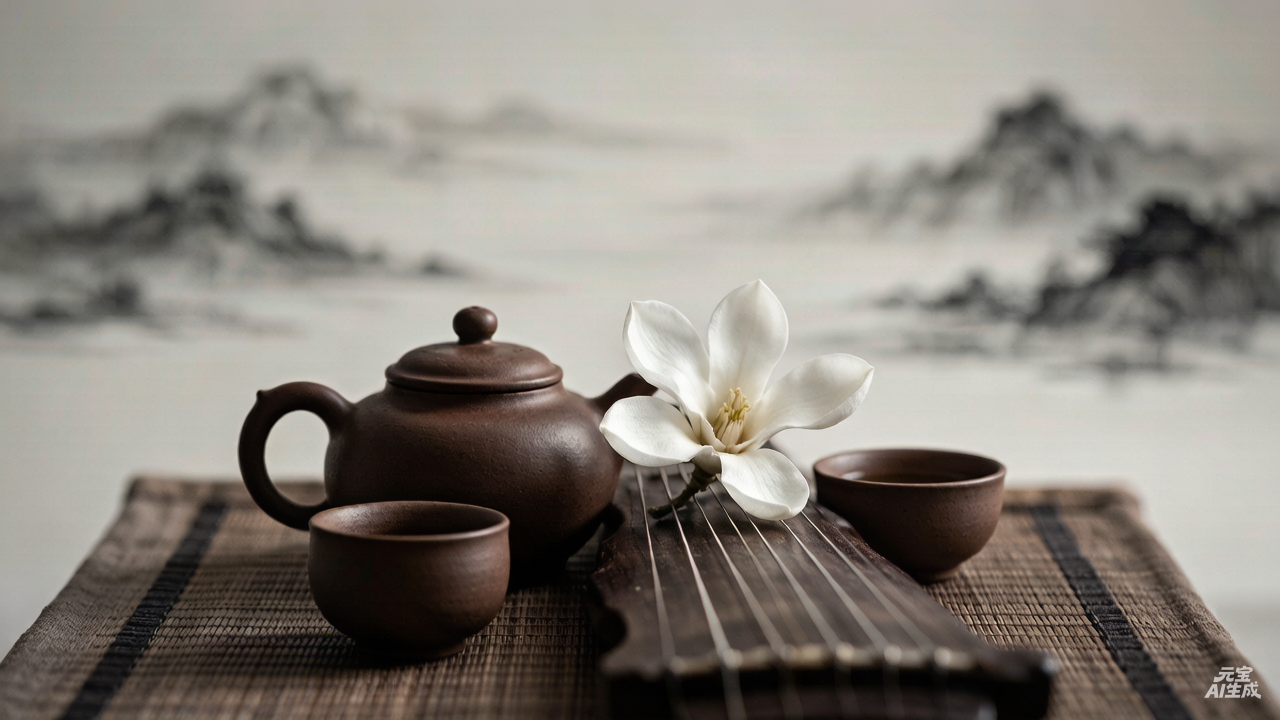
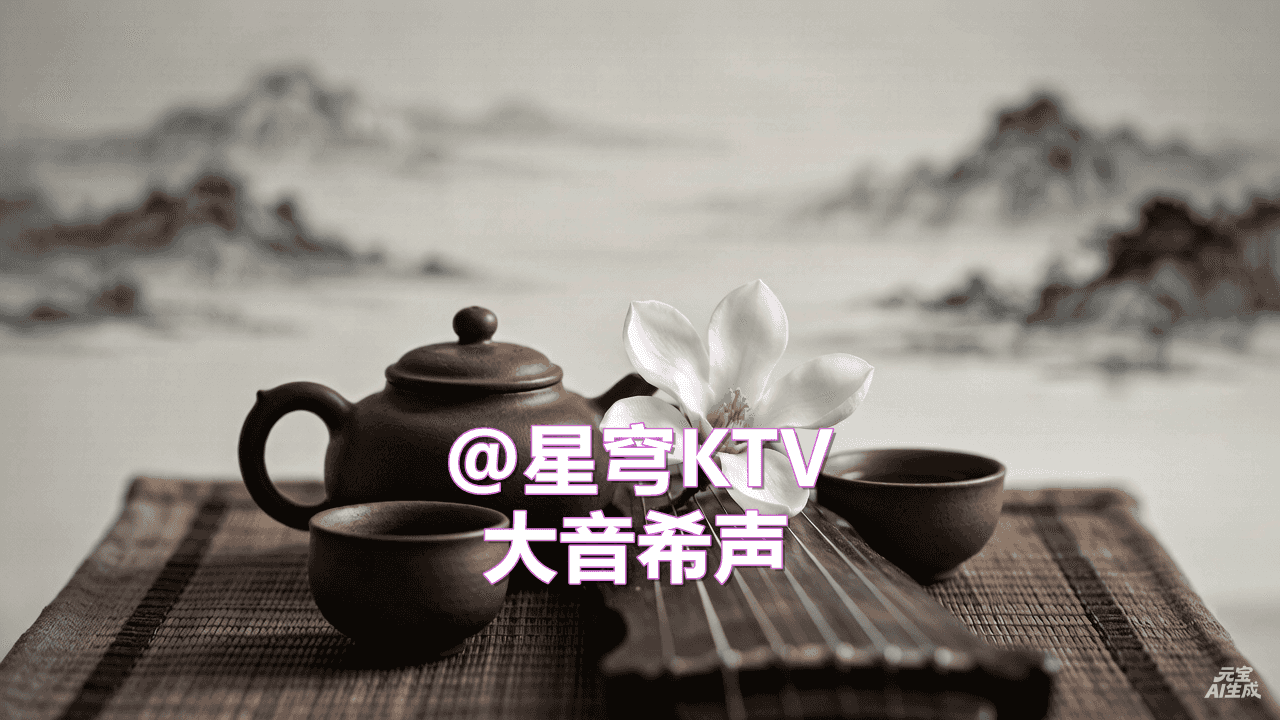
大音希声

Changed region(s): [[0.3438, 0.5194, 0.6562, 0.825]]

diff --git a/playfive45.html b/playfive45.html
@@ -1,0 +1,218 @@
+<!DOCTYPE html>
+<html lang="zh-CN">
+<head>
+<!-- Google tag (gtag.js) -->
+<script async src="https://www.googletagmanager.com/gtag/js?id=G-NFV4TWZ8NW"></script>
+<script>
+  window.dataLayer = window.dataLayer || [];
+  function gtag(){dataLayer.push(arguments);}
+  gtag('js', new Date());
+
+  gtag('config', 'G-NFV4TWZ8NW');
+</script>  
+  <meta charset="UTF-8">
+  <meta name="viewport" content="width=device-width, initial-scale=1.0, maximum-scale=1.0, user-scalable=no">
+  <title>星穹KTV5#《大音希声2》时间歌词播放器</title>
+  <style>
+    /* 视觉设计系统 */
+    :root {
+      --primary: #ff0000;
+      --secondary: #3f37c9;
+      --text: #2b2d42;
+      --bg: #34393f2d;
+    }
+        body {
+            background: url('img/大音希声.png') no-repeat center center fixed;
+            background-size: cover;
+            margin: 0;
+            padding: 0;
+            height: 100vh;
+        }    
+        /* 播放器核心样式 */
+        .lyric-container {
+            width: 95vw;
+            margin: 10px auto;
+            font-family: "Microsoft YaHei", sans-serif;
+            border-radius: 8px;
+            box-shadow: 0 6px 18px rgba(0,0,0,0.08);
+            overflow: hidden;
+        }
+        .audio-controls {
+            background: transparent !important;
+            flex-direction: column;
+            padding: 8px 0;
+        }
+        #audio {
+            width: 100%;
+            filter: drop-shadow(0 2px 4px rgba(0,0,0,0.4));
+            opacity: 0.5;
+        }
+        .lyric-viewport {
+            height: 60vh; /* 占据60%屏幕高度 */
+            overflow-y: auto;
+            padding: 10px 15px;
+            scroll-behavior: smooth;
+            background: rgba(255, 255, 255, 0.01);
+        }
+        .lyric-line {
+            text-align: center;
+            padding: 8px 0;
+            margin: 5px 0;
+            color: #3b363675;
+            font-size: clamp(16px, 4.5vw, 20px); /* 随屏幕宽度动态调整 */
+            font-weight: bold;
+            line-height: 1.6;
+            transition: all 0.35s cubic-bezier(0.25, 0.8, 0.25, 1);
+            border-left: 3px solid transparent;
+        }
+        .lyric-line.active {
+            color: #ff6905;
+            font-weight: 600;
+            transform: translateX(5px);
+            border-left-color: #00000000;
+            background: rgba(255, 255, 255, 0);
+            -webkit-text-stroke: 1px rgba(255, 255, 255, 0.521);
+            text-shadow: -1px -1px 0 #fff, 1px -1px 0 #fff, -1px 1px 0 #fff, 1px 1px 0 #fff;
+            color: var(--primary);
+        }
+        /* 增强滚动条 */
+        .lyric-viewport::-webkit-scrollbar {
+            width: 8px;
+        }
+        .lyric-viewport::-webkit-scrollbar-thumb {
+            background: #00000000;
+            border-radius: 4px;
+        }
+        @media (orientation: landscape) {
+        .lyric-container {
+            width: 70vw;
+            }
+        .lyric-viewport {
+            height: 70vh;
+            }
+        }        
+    </style>
+</head>
+<body>
+    <div class="lyric-container">
+        <div class="audio-controls">
+            <audio id="audio" controls>
+                <source src="https://static.musicmuse.ai/audio/cmqmh8vc4001intapjmq4mzn3/20260620/cmqmh9a7e00i7huopo1aoo204/e0ffsWHpm47r0Kn1xB6QZ.mp3" type="audio/mpeg">
+                您的浏览器不支持音频元素
+            </audio><a href="top1.html" style="color: blue; text-decoration: none;">返回首页</a>
+        </div>
+        <div class="lyric-viewport" id="lyrics">
+<div class="lyric-line" data-time="00:00.77">[Muse音乐]</div>
+<div class="lyric-line" data-time="00:05.56">端午的风先落在水面</div>
+<div class="lyric-line" data-time="00:08.23">艾草还青门前有香</div>
+<div class="lyric-line" data-time="00:10.90">你说祝福也许会迟到</div>
+<div class="lyric-line" data-time="00:12.95">可牵挂从不曾退场</div>
+<div class="lyric-line" data-time="00:15.36">我把心事折成小舟</div>
+<div class="lyric-line" data-time="00:17.92">放进你沉默的掌纹</div>
+<div class="lyric-line" data-time="00:20.57">不急着抵达不急着解释</div>
+<div class="lyric-line" data-time="00:23.42">让思念自己发声</div>
+<div class="lyric-line" data-time="00:25.70">越安静越听得见</div>
+<div class="lyric-line" data-time="00:30.72">那一层藏着的远</div>
+<div class="lyric-line" data-time="00:36.01">越轻轻越有重量</div>
+<div class="lyric-line" data-time="00:41.30">像潮水慢慢回旋</div>
+<div class="lyric-line" data-time="00:46.08">大音希声一声入心</div>
+<div class="lyric-line" data-time="00:51.24">大音希声无言有情</div>
+<div class="lyric-line" data-time="00:56.44">大音希声弦外有你</div>
+<div class="lyric-line" data-time="01:01.62">大音希声不说也近</div>
+<div class="lyric-line" data-time="01:07.48">我们合着再创新声</div>
+<div class="lyric-line" data-time="01:10.47">不是喧哗不是追赶</div>
+<div class="lyric-line" data-time="01:12.97">是把文化放进呼吸里</div>
+<div class="lyric-line" data-time="01:15.50">让古老和今天相看</div>
+<div class="lyric-line" data-time="01:18.05">你看那根细细的弦</div>
+<div class="lyric-line" data-time="01:23.00">轻轻一拨山河都醒</div>
+<div class="lyric-line" data-time="01:23.77">原来最深的那句回答</div>
+<div class="lyric-line" data-time="01:26.05">常常停在安静里</div>
+<div class="lyric-line" data-time="01:28.51">越安静越听得见</div>
+<div class="lyric-line" data-time="01:33.37">那一层藏着的远</div>
+<div class="lyric-line" data-time="01:38.74">越轻轻越有重量</div>
+<div class="lyric-line" data-time="01:43.97">像潮水慢慢回旋</div>
+<div class="lyric-line" data-time="01:48.64">大音希声一声入心</div>
+<div class="lyric-line" data-time="01:53.85">大音希声无言有情</div>
+<div class="lyric-line" data-time="01:59.04">大音希声弦外有你</div>
+<div class="lyric-line" data-time="02:04.31">大音希声不说也近</div>
+<div class="lyric-line" data-time="02:09.25">若世界太快就慢下来</div>
+<div class="lyric-line" data-time="02:14.52">若话语太满</div>
+<div class="lyric-line" data-time="02:17.62">就留白</div>
+<div class="lyric-line" data-time="02:19.95">让一缕风</div>
+<div class="lyric-line" data-time="02:22.37">替我们回答</div>
+<div class="lyric-line" data-time="02:25.20">让一根弦</div>
+<div class="lyric-line" data-time="02:27.59">把心门打开</div>
+<div class="lyric-line" data-time="02:30.51">大音希声一声入心</div>
+<div class="lyric-line" data-time="02:35.65">大音希声无言有情</div>
+<div class="lyric-line" data-time="02:40.81">大音希声弦外有你</div>
+<div class="lyric-line" data-time="02:46.00">大音希声不说也近</div>
+<div class="lyric-line" data-time="02:51.25">大音希声牵挂不迟</div>
+<div class="lyric-line" data-time="02:56.41">大音希声</div>
+<div class="lyric-line" data-time="02:59.02">永远到此</div>
+        </div>
+    </div>
+
+    <script>
+        // 高性能时间解析器
+        const parseTime = (timeStr) => {
+            const [mmss, ms] = timeStr.split('.');
+            const [mm, ss] = mmss.split(':');
+            return (+mm * 60) + (+ss) + (+ms / 100);
+        };
+// 增加歌词点击跳转功能
+document.querySelectorAll('.lyric-line').forEach(line => {
+  line.addEventListener('click', () => {
+    const time = parseTime(line.dataset.time);
+    audio.currentTime = time;
+  });
+});
+
+        // 播放器核心逻辑
+        document.addEventListener('DOMContentLoaded', () => {
+            const audio = document.getElementById('audio');
+            const lyricsContainer = document.getElementById('lyrics');
+            const lyricElements = Array.from(document.querySelectorAll('.lyric-line'));
+            
+            // 预计算时间点
+            const timePoints = lyricElements.map(el => ({
+                element: el,
+                time: parseTime(el.dataset.time)
+            }));
+
+            // 优化性能的歌词同步
+            let lastActiveIndex = -1;
+            audio.addEventListener('timeupdate', () => {
+                const currentTime = audio.currentTime;
+                
+                // 二分查找当前歌词
+                let low = 0, high = timePoints.length - 1;
+                while (low <= high) {
+                    const mid = Math.floor((low + high) / 2);
+                    if (timePoints[mid].time < currentTime + 0.4) {
+                        low = mid + 1;
+                    } else {
+                        high = mid - 1;
+                    }
+                }
+                
+                const activeIndex = Math.max(0, high);
+                if (activeIndex !== lastActiveIndex) {
+                    if (lastActiveIndex >= 0) {
+                        timePoints[lastActiveIndex].element.classList.remove('active');
+                    }
+                    timePoints[activeIndex].element.classList.add('active');
+                    
+                    // 智能滚动定位
+                    const { offsetTop, offsetHeight } = timePoints[activeIndex].element;
+                    lyricsContainer.scrollTo({
+                        top: offsetTop - (lyricsContainer.clientHeight / 2) + (offsetHeight / 2),
+                        behavior: 'smooth'
+                    });
+                    
+                    lastActiveIndex = activeIndex;
+                }
+            });
+        });        
+    </script>
+</body>
+</html>

diff --git a/top1.html b/top1.html
@@ -303,6 +303,7 @@
         <div class="music-classical">
             <h3>古典音乐</h3>
             <ul class="song-list">
+                <li class="song-item"><a href="playfive45.html?song=大音希声2=大音希声2&artist=Muse">大音希声2</a></li>
                 <li class="song-item"><a href="playfive44.html?song=大音希声=大音希声&artist=Muse">大音希声</a></li>                
                 <li class="song-item"><a href="play-c3.html?song=坐忘云山=坐忘云山&artist=Muse">坐忘云山</a></li>
                 <li class="song-item"><a href="playfive35.html?song=射日长弓&title=射日长弓&artist=Muse">射日长弓</a></li>
